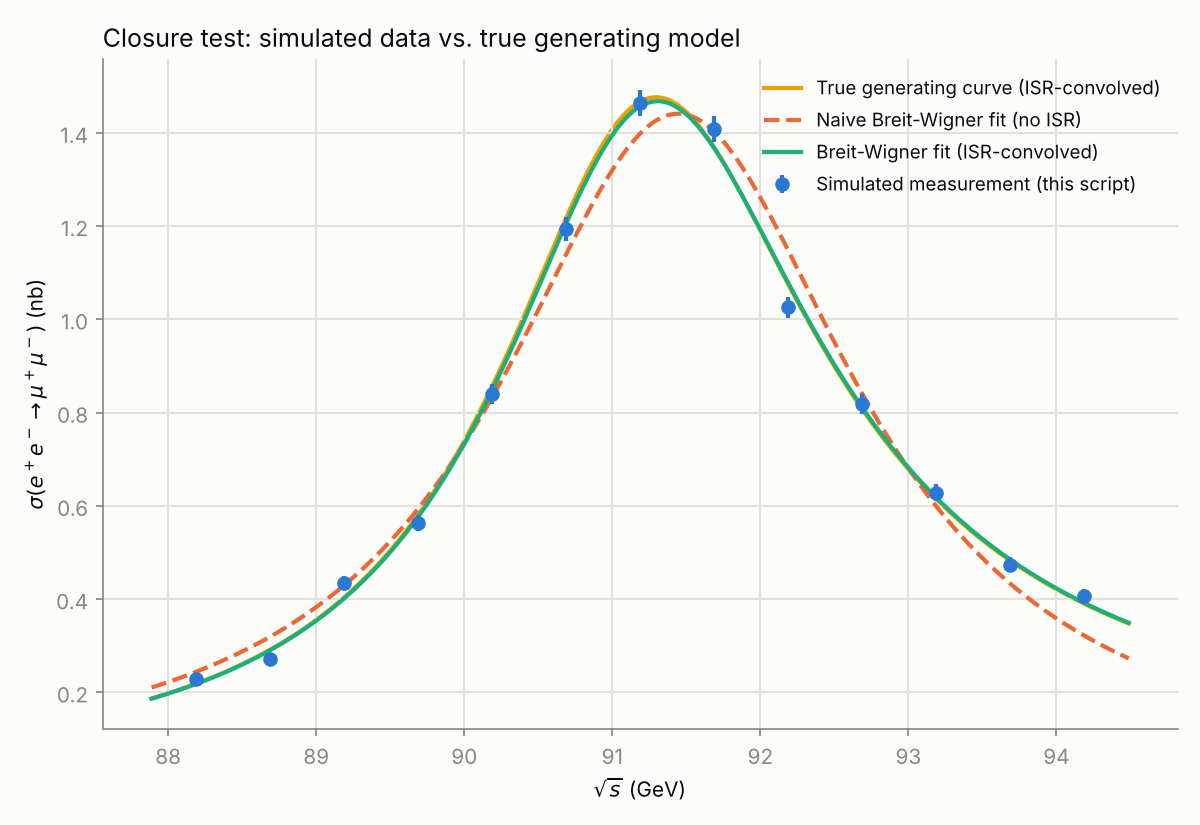
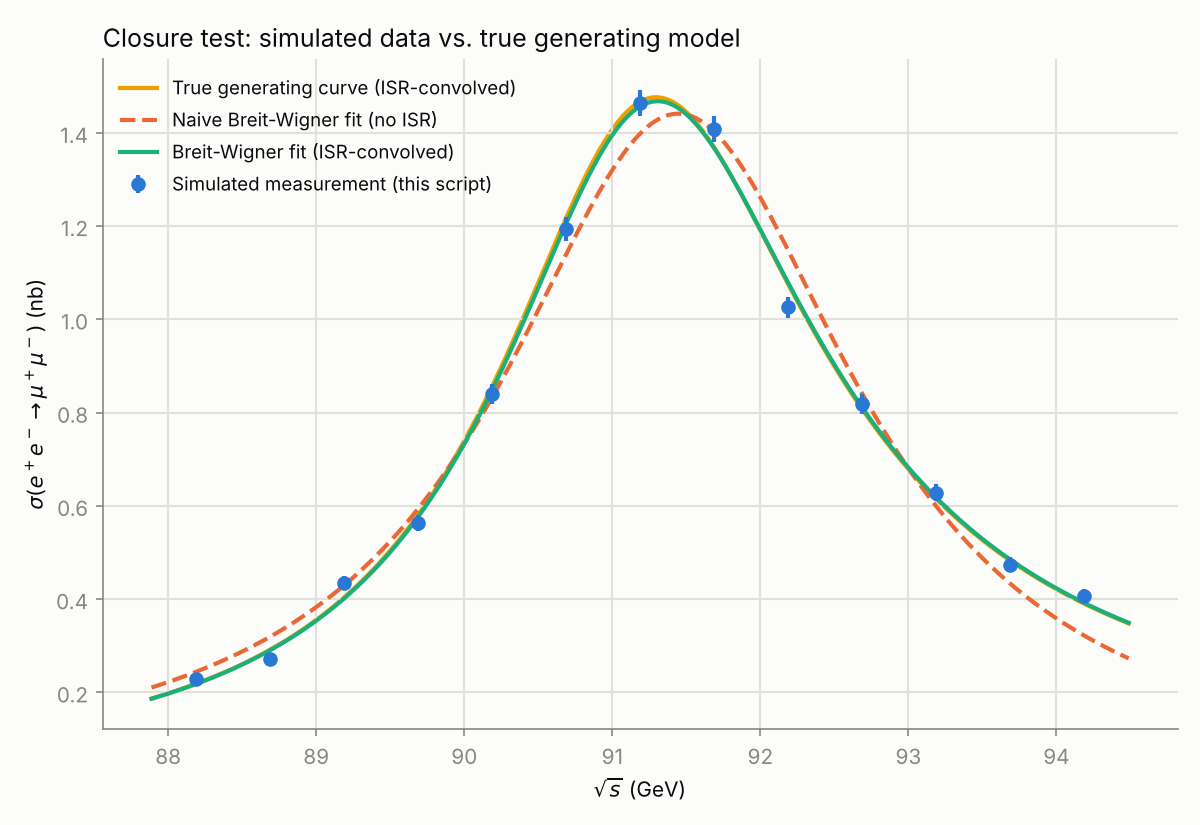
MG5 closure with ISR on: first complete run passes; add a noise-free shape check
The first complete `--isr` scan (MadGraph5 3.5.0, 2026-11-11, run by the
user, under 10 minutes): the ISR-convolved fit recovers the generator's M_Z
and Gamma_Z at +0.85 / -1.22 sigma, the naive fit is +8.2 sigma high, and
A_FB gives sin2(theta_W) on-shell at +0.7 sigma. Its chi2 of 26/10 is the
Poisson subsampling of events (one point at -3.4 sigma), not the model.

analyse_scan() now also
- fits the improved-Born gamma/Z model (fixed width, as MG5's propagator):
  +0.11 / -1.52 sigma;
- refits all models to MadGraph5's own integrated cross sections, which have
  no sampling noise: the Breit-Wigner sits +36 / +27 MeV from the truth
  (mass convention and missing photon term, hidden by the 34 MeV statistical
  error), the improved-Born model +4.6 / -5.2 MeV.

A test pins these numbers on the scan table of that run. README section 3
gains the result table and figure; results row 9, caveats, WALKTHROUGH and
ROADMAP (P1-2 done) are updated. The closure-plot legend moves to the empty
upper-left corner.

Claude-Session: https://claude.ai/code/session_01VGhvwN44ZPBvSJni2mcpSY

Changed region(s): [[0.6475, 0.0909, 0.9867, 0.2424], [0.0925, 0.0909, 0.4317, 0.2424]]

diff --git a/src/simulate_mumu_mg5.py b/src/simulate_mumu_mg5.py
@@ -51,14 +51,11 @@ MG5's `isronlyll` PDF is the O(alpha^2) leading-log structure function with
 alpha = 1/132.23 hard-coded, so the fit uses the leading-log radiator "o2ll"
 with the same alpha in beta.
 
-The full --isr scan has not been completed yet. A first attempt on MG5
-3.5.0 (2026-11-05) got through the acceptance sample, which shows that MG5
-accepts lpp = -3/+3, pdlabel = isronlyll and mmll, and then stalled on an
-unanswered prompt, which _run_mg5 now avoids. The remaining settings
-(fixed_fac_scale, dsqrt_q2fact1/2) were checked on 2026-11-08 against the
-run_card definitions in MadGraph5 v3.5.17's madgraph/various/banner.py,
-without running MG5. MG5 refuses unknown names, so a mismatch in another
-version fails loudly.
+The first complete --isr scan ran on MG5 3.5.0 on 2026-11-11 in under ten
+minutes (README section 3). An earlier attempt had stalled on an unanswered
+prompt, which _run_mg5 now avoids. The scale settings (fixed_fac_scale,
+dsqrt_q2fact1/2) were checked against the run_card definitions in
+MadGraph5 v3.5.17's madgraph/various/banner.py.
 
 --refit re-analyses the scan table an earlier run saved
 (data/processed/simulated_mumu_mg5[_isr]_scan.csv) with the current fit
@@ -472,6 +469,41 @@ def analyse_scan(scan: pd.DataFrame, truth: dict, isr_on: bool, out_dir: Path = 
         true_label=true_label,
     )
 
+    # MG5's matrix element has photon exchange and gamma/Z interference, and
+    # its propagator has a fixed width, so the improved-Born model of
+    # electroweak.py is the like-for-like fit: its M_Z and Gamma_Z compare
+    # with the param_card directly, without a convention shift.
+    born_model = ccs.improved_born_isr("mumu") if isr_on else ccs.improved_born("mumu")
+    print("\n=== Improved-Born fit (photon + Z + interference, fixed width as in MG5) ===")
+    cov = np.diag(scan["sigma_computed_err_nb"].to_numpy() ** 2)
+    fit_iba = ccs.fit_with_covariance(scan, born_model, cov, sigma_peak=1.0)
+    pull_mZ_iba = (fit_iba.values["mZ"] - truth["mZ"]) / fit_iba.errors["mZ"]
+    pull_gammaZ_iba = (fit_iba.values["gammaZ"] - truth["gammaZ"]) / fit_iba.errors["gammaZ"]
+    print(f"chi2/ndof = {fit_iba.fval:.2f}/{len(scan) - 3}")
+    print(f"  mZ = {fit_iba.values['mZ']:.4f} +/- {fit_iba.errors['mZ']:.4f} GeV, gammaZ = {fit_iba.values['gammaZ']:.4f} "
+          f"+/- {fit_iba.errors['gammaZ']:.4f} GeV, norm = {fit_iba.values['sigma_peak']:.4f}")
+    print(f"  pull vs. MG5 param_card truth: mZ {pull_mZ_iba:+.2f} sigma, gammaZ {pull_gammaZ_iba:+.2f} sigma")
+
+    # The same fits on MG5's own integrated cross sections, which carry no
+    # Poisson noise from the event subsampling (only MG5's ~0.3% integration
+    # error, not saved). Equal relative weights; only the shifts mean anything.
+    print("\n=== Noise-free shape check: the fits on MG5's integrated cross sections ===")
+    exact = scan.assign(sigma_computed_nb=scan["sigma_mg5_true_pb"] / 1000,
+                        sigma_computed_err_nb=scan["sigma_mg5_true_pb"] / 1000 * 0.01)
+    exact_cov = np.diag(exact["sigma_computed_err_nb"].to_numpy() ** 2)
+    shape_shifts = {}
+    for label, fit in [
+        ("naive Breit-Wigner", fit_breit_wigner(exact)),
+        ("ISR-convolved Breit-Wigner", fit_breit_wigner_isr(exact)),
+        ("improved Born", ccs.fit_with_covariance(exact, born_model, exact_cov, sigma_peak=1.0)),
+    ]:
+        d_m = (fit.values["mZ"] - truth["mZ"]) * 1e3
+        d_g = (fit.values["gammaZ"] - truth["gammaZ"]) * 1e3
+        shape_shifts[label] = (d_m, d_g)
+        print(f"  {label:28s} mZ {d_m:+7.1f} MeV, gammaZ {d_g:+7.1f} MeV from the param_card truth")
+    print("  A Breit-Wigner in sqrt(s) and MG5's fixed-width propagator define M_Z differently\n"
+          "  (README section 0.2), and the Breit-Wigner has no photon term (section 0.3).")
+
     which = "ISR-convolved" if isr_on else "NAIVE"
     print(f"\n=== A_FB(s) fit (mZ, gammaZ fixed from the {which} lineshape fit -- see note above) ===")
     fit_afb_result = fit_afb(scan, lineshape_for_afb.values["mZ"], lineshape_for_afb.values["gammaZ"])
@@ -500,6 +532,9 @@ def analyse_scan(scan: pd.DataFrame, truth: dict, isr_on: bool, out_dir: Path = 
     return {
         "pull_mZ_naive": pull_mZ_plain, "pull_gammaZ_naive": pull_gammaZ_plain,
         "pull_mZ_isr": pull_mZ, "pull_gammaZ_isr": pull_gammaZ,
+        "pull_mZ_iba": pull_mZ_iba, "pull_gammaZ_iba": pull_gammaZ_iba,
+        "shape_mZ_isr_MeV": shape_shifts["ISR-convolved Breit-Wigner"][0],
+        "shape_mZ_iba_MeV": shape_shifts["improved Born"][0],
         "sin2w": fitted_sin2, "pull_sin2w": pull_sin2,
     }
 

diff --git a/tests/test_mg5_helpers.py b/tests/test_mg5_helpers.py
@@ -162,3 +162,33 @@ def test_isr_on_closure_expectation(restore_isr_settings):
     ccs.ISR_ALPHA = ccs.ALPHA_QED
     mismatched = ccs.fit_breit_wigner_isr(scan)
     assert (mismatched.values["mZ"] - mz) * 1e3 == pytest.approx(8.7, abs=1.0)
+
+
+
+def test_refit_of_the_first_complete_isr_scan(tmp_path, restore_isr_settings):
+    """The first complete --isr scan (MG5 3.5.0, 2026-11-11), as printed by
+    --refit: the matched ISR fit recovers the truth within ~1 sigma, the
+    naive fit is ~8 sigma high, and on MG5's own noise-free cross sections
+    the improved-Born fit lands within a few MeV where the Breit-Wigner is
+    ~+36 MeV off (convention and photon term)."""
+    rows = [
+        (88.1876, 207.6, 0.2287, 0.0282, -0.3333, 0.1161), (88.6876, 274.2, 0.2772, 0.0310, -0.0750, 0.1115),
+        (89.1876, 382.0, 0.3500, 0.0348, -0.0495, 0.0994), (89.6876, 550.2, 0.5475, 0.0436, -0.0506, 0.0795),
+        (90.1876, 818.0, 0.7380, 0.0506, -0.0516, 0.0684), (90.6876, 1179.0, 1.2855, 0.0668, -0.0350, 0.0519),
+        (91.1876, 1454.0, 1.3964, 0.0696, 0.0124, 0.0498), (91.6876, 1360.0, 1.5073, 0.0723, 0.0667, 0.0478),
+        (92.1876, 1073.0, 1.0464, 0.0603, 0.0199, 0.0575), (92.6876, 817.8, 0.9044, 0.0560, 0.1801, 0.0609),
+        (93.1876, 618.9, 0.4678, 0.0403, 0.0963, 0.0857), (93.6876, 485.4, 0.4851, 0.0410, 0.2429, 0.0820),
+        (94.1876, 399.9, 0.4158, 0.0380, 0.2500, 0.0884),
+    ]
+    scan = pd.DataFrame(rows, columns=["sqrt_s_GeV", "sigma_mg5_true_pb", "sigma_computed_nb", "sigma_computed_err_nb",
+                                       "afb_measured", "afb_err"])
+    truth = {"mZ": 91.1880, "gammaZ": 2.4414, "sin2w_onshell": 1 - (80.419 / 91.188) ** 2}
+    mg5.configure_fit_for_mg5_isr()
+    out = mg5.analyse_scan(scan, truth, isr_on=True, out_dir=tmp_path)
+    assert out["pull_mZ_isr"] == pytest.approx(0.84, abs=0.05)
+    assert out["pull_gammaZ_isr"] == pytest.approx(-1.22, abs=0.05)
+    assert out["pull_mZ_naive"] == pytest.approx(8.16, abs=0.05)
+    assert out["pull_sin2w"] == pytest.approx(0.73, abs=0.05)
+    assert abs(out["pull_mZ_iba"]) < 1.5
+    assert out["shape_mZ_isr_MeV"] == pytest.approx(36, abs=3)
+    assert abs(out["shape_mZ_iba_MeV"]) < 8

diff --git a/src/simulate_mumu.py b/src/simulate_mumu.py
@@ -400,7 +400,7 @@ def plot_closure(
         ax.spines[spine].set_color(MUTED)
     ax.tick_params(colors=MUTED)
 
-    legend = ax.legend(frameon=False, loc="upper right", fontsize=9)
+    legend = ax.legend(frameon=False, loc="upper left", fontsize=9)
     for text in legend.get_texts():
         text.set_color(INK)
 

diff --git a/README.md b/README.md
@@ -43,7 +43,7 @@ done here.
 | 6 | Where does the uncertainty come from? | An [error budget](#error-budget): statistics dominate ($11.6$ / $18.8$ MeV); the per-channel luminosity that Table 1 does not list is the largest systematic ($6.4$ / $12.7$ MeV); truncating the radiator at $\mathcal{O}(\alpha^2)$ costs $3.5$ / $4.6$ MeV |
 | 7 | Is that ISR machinery correct, or just tuned to land on PDG? | Toy-MC closure test against a *known* truth: the no-ISR fit lands $+18.1\sigma\,/\,+10.4\sigma$ off, the ISR fit $+0.7\sigma\,/\,+0.3\sigma$. Repeated 500 times, the ISR fit's pulls have mean $\approx 0$ and width $\approx 1$ ([pull study](#pull-study)) |
 | 8 | Can a second, independent observable come out of the same events? | $\sin^2\theta_W^{\mathrm{eff}} = 0.2289\,^{+0.0043}_{-0.0035}$ from the forward-backward asymmetry (true input 0.23155, $-0.6\sigma$). The asymmetric MINOS errors have the right coverage over 500 toys; the symmetric ones did not |
-| 9 | Does it still work when the truth model is not my own code? | With MadGraph5-generated events and ISR switched off at the generator, the **naive fit now wins** and the ISR fit is $-8.5\sigma$. That inversion is the correct behaviour, and is the strongest evidence the ISR correction does real work. $A_{\mathrm{FB}}$ gives $\sin^2\theta_W^{\text{on-shell}} = 0.2243 \pm 0.0071$ (truth 0.2222, $+0.3\sigma$) |
+| 9 | Does it still work when the truth model is not my own code? | Yes, both ways. With MadGraph5 events and ISR **off** at the generator the naive fit wins and the ISR fit is $-8.5\sigma$. With ISR **on** the ISR fit recovers the generator's $M_Z$, $\Gamma_Z$ at $+0.8\sigma$ / $-1.2\sigma$ and the naive fit is $+8.2\sigma$ high, as on OPAL data. On MadGraph5's noise-free cross sections the full $\gamma/Z$ model lands within $5$ MeV of the truth |
 | 10 | What happens with all channels at once? | A joint $qq+\mu\mu+\tau\tau$ fit of the full $\gamma/Z$ model gives $M_Z = 91.1908 \pm 0.0035 \pm 0.0040$ and $\Gamma_Z = 2.5065 \pm 0.0058 \pm 0.0050$ GeV ($+0.6\sigma$, $+1.4\sigma$ from PDG), $R_\ell = 20.80 \pm 0.06$ against OPAL's own $20.823 \pm 0.044$, and $\sigma_{\mu\mu}/\sigma_{\tau\tau} = 1.000 \pm 0.006$ ([section 4](#4-extensions)) |
 
 Rows 3 to 6 are the physics result. Rows 7 to 9 are the evidence that row 4
@@ -57,13 +57,13 @@ is not a coincidence. Row 10 is where the fit error meets the systematics.
 python3 -m venv .venv && source .venv/bin/activate
 pip install -r requirements-dev.txt   # or requirements.txt without pytest/Jupyter
 
-python -m pytest                        # 59 regression tests, ~10 s
+python -m pytest                        # 60 regression tests, ~15 s
 python src/compute_cross_section.py     # real OPAL data: rows 1-6 above, ~20 s
 python src/simulate_mumu.py             # toy-MC closure test: rows 7-8
 python src/pull_study.py                # 500 repeated toys, ~5 min: rows 7-8
 python src/extended_fits.py             # more points, LEP lineshapes, joint fit: row 10, ~4 min
 python src/simulate_mumu_mg5.py         # generator-level closure: row 9 (needs MadGraph5)
-python src/simulate_mumu_mg5.py --isr   # same, with MG5's ISR on (MG5 >= 3.2, scan not yet completed)
+python src/simulate_mumu_mg5.py --isr   # same, with MG5's ISR on: row 9 (MG5 >= 3.2, ~10 min)
 ```
 
 Or run everything in order, either way:
@@ -855,48 +855,83 @@ needs `gfortran`/`gcc`, deliberately not in `requirements.txt`. Point
 the other two this one shells out to generate events: the 13-point scan plus
 the acceptance sample takes 1-2 minutes.
 
+### With ISR switched on at the generator
+
+`--isr` switches on MadGraph5's ($\geq 3.2.0$) leading-log $e^\pm$ structure
+functions ([Frixione et al.](https://arxiv.org/abs/2108.10261);
+`lpp = -3/+3`, `pdlabel = isronlyll`), fixes their factorization scale to
+$\sqrt{s}$, cuts $\sqrt{s'}/\sqrt{s} > 0.9$ through the $\mu^+\mu^-$
+invariant mass, and evaluates $\cos\theta$ in the post-radiation $e^+e^-$
+rest frame. This is the test the toy MC cannot provide: there the same
+radiator generates and fits.
+
+The generator's radiation is known exactly. Equations 45-48 of the
+MadGraph5 paper give the `isronlyll` PDF as the $\mathcal{O}(\alpha^2)$
+leading-log structure function of section 0.5, with $\alpha = 1/132.23$
+hard-coded in the MG5 source. So with `--isr` the fit uses that radiator
+with that $\alpha$; with $\alpha(0)$ it would sit $9$ MeV high.
+
+<p align="center">
+  <img src="figures/closure_mg5_isr_lineshape.png" width="600"
+       alt="MadGraph5 closure test with ISR on: the ISR-convolved fit follows the generator, the naive fit does not">
+</p>
+
+First complete run, MadGraph5 3.5.0 on 2026-11-11, 13 points at
+$0.3\ \mathrm{pb}^{-1}$ each, under 10 minutes:
+
+| Fit | $\chi^2/\mathrm{ndof}$ | $M_Z$ (GeV) | $\Gamma_Z$ (GeV) | pull vs. param_card truth |
+|---|---|---|---|---|
+| Naive (no ISR) | 35.38/10 | $91.4613 \pm 0.0335$ | $2.7290 \pm 0.0981$ | $\mathbf{+8.2\sigma\,/\,+2.9\sigma}$ |
+| ISR-convolved Breit-Wigner | 25.83/10 | $91.2167 \pm 0.0339$ | $2.3281 \pm 0.0929$ | $\mathbf{+0.85\sigma\,/\,-1.22\sigma}$ |
+| Improved Born $\gamma + Z + $ interference, ISR | 25.95/10 | $91.1918 \pm 0.0339$ | $2.3030 \pm 0.0911$ | $+0.11\sigma\,/\,-1.52\sigma$ |
+
+$A_{\mathrm{FB}}$ then gives
+$\sin^2\theta_W^{\text{on-shell}} = 0.2281\,^{+0.0138}_{-0.0081}$ against the
+truth $0.2222$, $+0.7\sigma$.
+
+This is the mirror of the ISR-off table above, and the result the project
+was missing: on events whose radiation was generated by independent code,
+the ISR correction moves the fit onto the truth, and leaving it out biases
+it high exactly as on OPAL data.
+
+**The $\chi^2$ of 26 is the event sampling, not the model.** The script
+keeps a Poisson number of the generated events at each point. Those draws
+alone give $\sum z^2 = 27.8$ for 13 points, most of it one point at
+$93.19$ GeV that came out $3.4\sigma$ low.
+
+**A finer test needs no new events.** The scan table also stores the cross
+section MadGraph5 integrated at each point, which has no sampling noise.
+Fitted to those (`--refit` prints this):
+
+| Fit model | $\Delta M_Z$ (MeV) | $\Delta\Gamma_Z$ (MeV) |
+|---|---|---|
+| naive Breit-Wigner | $+349$ | $+470$ |
+| ISR-convolved Breit-Wigner | $+36$ | $+27$ |
+| improved Born $\gamma + Z + $ interference, ISR | $+4.6$ | $-5.2$ |
+
+The Breit-Wigner's $+36$ MeV is the size of the convention difference that
+section 4.2 measures on OPAL data ($+31$ MeV between a Breit-Wigner in
+$\sqrt{s}$ and a fixed-width mass, which is what MadGraph5's propagator
+uses), plus its missing photon term. It was hidden here inside a $34$ MeV
+statistical error. The complete model, which is what this README compares
+with PDG, closes on an independent generator to $5$ MeV.
+
+The first attempt (2026-11-05) had found the MG5 peak cross section at
+$0.96$ of the prediction then. The fitted normalization of the improved-Born
+model to MadGraph5's integrated cross sections is $0.973$. MG5's default
+run card requires lepton $p_T > 10$ GeV, which keeps $96.5\%$ of a
+$1 + \cos^2\theta$ distribution at the peak; that is likely most of the
+difference, though it was not checked separately.
+
 ### Known limitations
 
 - Parton-level only: no PDF (correct for a lepton collider), no
-  ISR/beamstrahlung, no shower, no detector simulation. A scope choice, not an
+  ISR/beamstrahlung in the ISR-off run, no shower, no detector simulation. A scope choice, not an
   oversight -- the project's answer to referencing a real collider's
   generate/detector/analysis structure without the full Pythia8/Delphes/FastJet
   chain that hadronic LHC final states need.
-- **ISR-on mode: started once, not yet completed.** `--isr` switches on
-  MadGraph5's ($\geq 3.2.0$) leading-log $e^\pm$ structure functions
-  ([Frixione et al.](https://arxiv.org/abs/2108.10261); `lpp = -3/+3`,
-  `pdlabel = isronlyll`), fixes their factorization scale to $\sqrt{s}$, cuts
-  $\sqrt{s'}/\sqrt{s} > 0.9$ through the $\mu^+\mu^-$ invariant mass,
-  truncates the fit's radiator integral at the matching $x_{\max}$, evaluates
-  $\cos\theta$ in the post-radiation $e^+e^-$ rest frame (boost tested), and
-  feeds the $A_{\mathrm{FB}}$ fit from the ISR-convolved lineshape. This is
-  the test the toy MC cannot provide (the same radiator generates and fits
-  there), and the one remaining logical gap.
+- **ISR-on mode** (`--isr`): see the next subsection.
 
-  *What has been run.* A first attempt on MadGraph5 3.5.0 (2026-11-05)
-  generated the acceptance sample, so MG5 accepts the beam settings. It gave
-  a peak cross section of $1443 \pm 7$ pb, $0.96$ of what the
-  $\mathcal{O}(\alpha)$ radiator of that day predicted, and then stalled on
-  an unanswered prompt, which the runner now avoids. The 13-point scan has
-  never finished.
-
-  *What the generator's radiation is.* Equations 45-48 of the MadGraph5
-  paper give the `isronlyll` electron PDF: it is the
-  $\mathcal{O}(\alpha^2)$ leading-log structure function of section 0.5, the
-  very function this repo's radiator is tested against, with no
-  non-logarithmic term. Its $\alpha$ is hard-coded in the MG5 source as
-  $0.007562397 = 1/132.23$, where the fit uses $\alpha(0) = 1/137.04$. That
-  makes MG5's $\beta$ $3.6\%$ larger. With `--isr` the fit now uses the
-  same radiator and the same $\alpha$ as the generator.
-
-  *What to expect.* On a noiseless copy of the scan (a test): the matched
-  ISR fit returns the truth exactly, the naive fit lands $+7.1\sigma$ /
-  $+4.1\sigma$ high, and a fit that kept $\alpha(0)$ would sit $9$ and
-  $13$ MeV high, at most a quarter of a $\sigma$ at this luminosity. The
-  generator's
-  $\alpha$ and its $\mathcal{O}(\alpha^2)$ terms lower the predicted peak by
-  $1.5\%$, so they explain part of the $4\%$ deficit seen in the first
-  attempt but not all of it. The rest is open until the scan runs.
 - The "true" reference curve in the closure plot still uses the
   non-relativistic fixed-width `breit_wigner()` shape (pinned to MG5's own
   precise on-peak cross section) as a stand-in for MG5's fully relativistic
@@ -1136,12 +1171,11 @@ Per-script limitations are inside each section above. Project-wide:
   use $\alpha(0)$ and a full-angle formula on events counted inside
   $|\cos\theta| < 0.95$; the second effect is $+0.0003$ on
   $\sin^2\theta_W$.
-- **Not yet completed**: the MadGraph5 ISR-on closure test (section 3),
-  which needs an MG5 installation; it is the one piece of evidence still
-  missing for the ISR correction, since the toy MC generates and fits with
-  the same radiator. A first attempt left a $4\%$ difference in the peak
-  cross section of which $1.5\%$ is now understood. The numbers of section 3
-  are from the 2026-09-27 code.
+- **The MadGraph5 closure tests are at $0.3\ \mathrm{pb}^{-1}$ per point**,
+  so their statistical errors ($34$ / $95$ MeV) are three times those of the
+  real data. The noise-free check on MG5's integrated cross sections goes
+  further, to $5$ MeV for the complete model. The ISR-off numbers of
+  section 3 are from the 2026-09-27 code.
 - **Natural extensions**: a ZFITTER-level radiator; the $ee$ channel with
   its $t$-channel contribution subtracted; a fit of $A_{\mathrm{FB}}$ in
   $v^2$; OPAL's own asymmetry measurements, which the paper tabulates and
